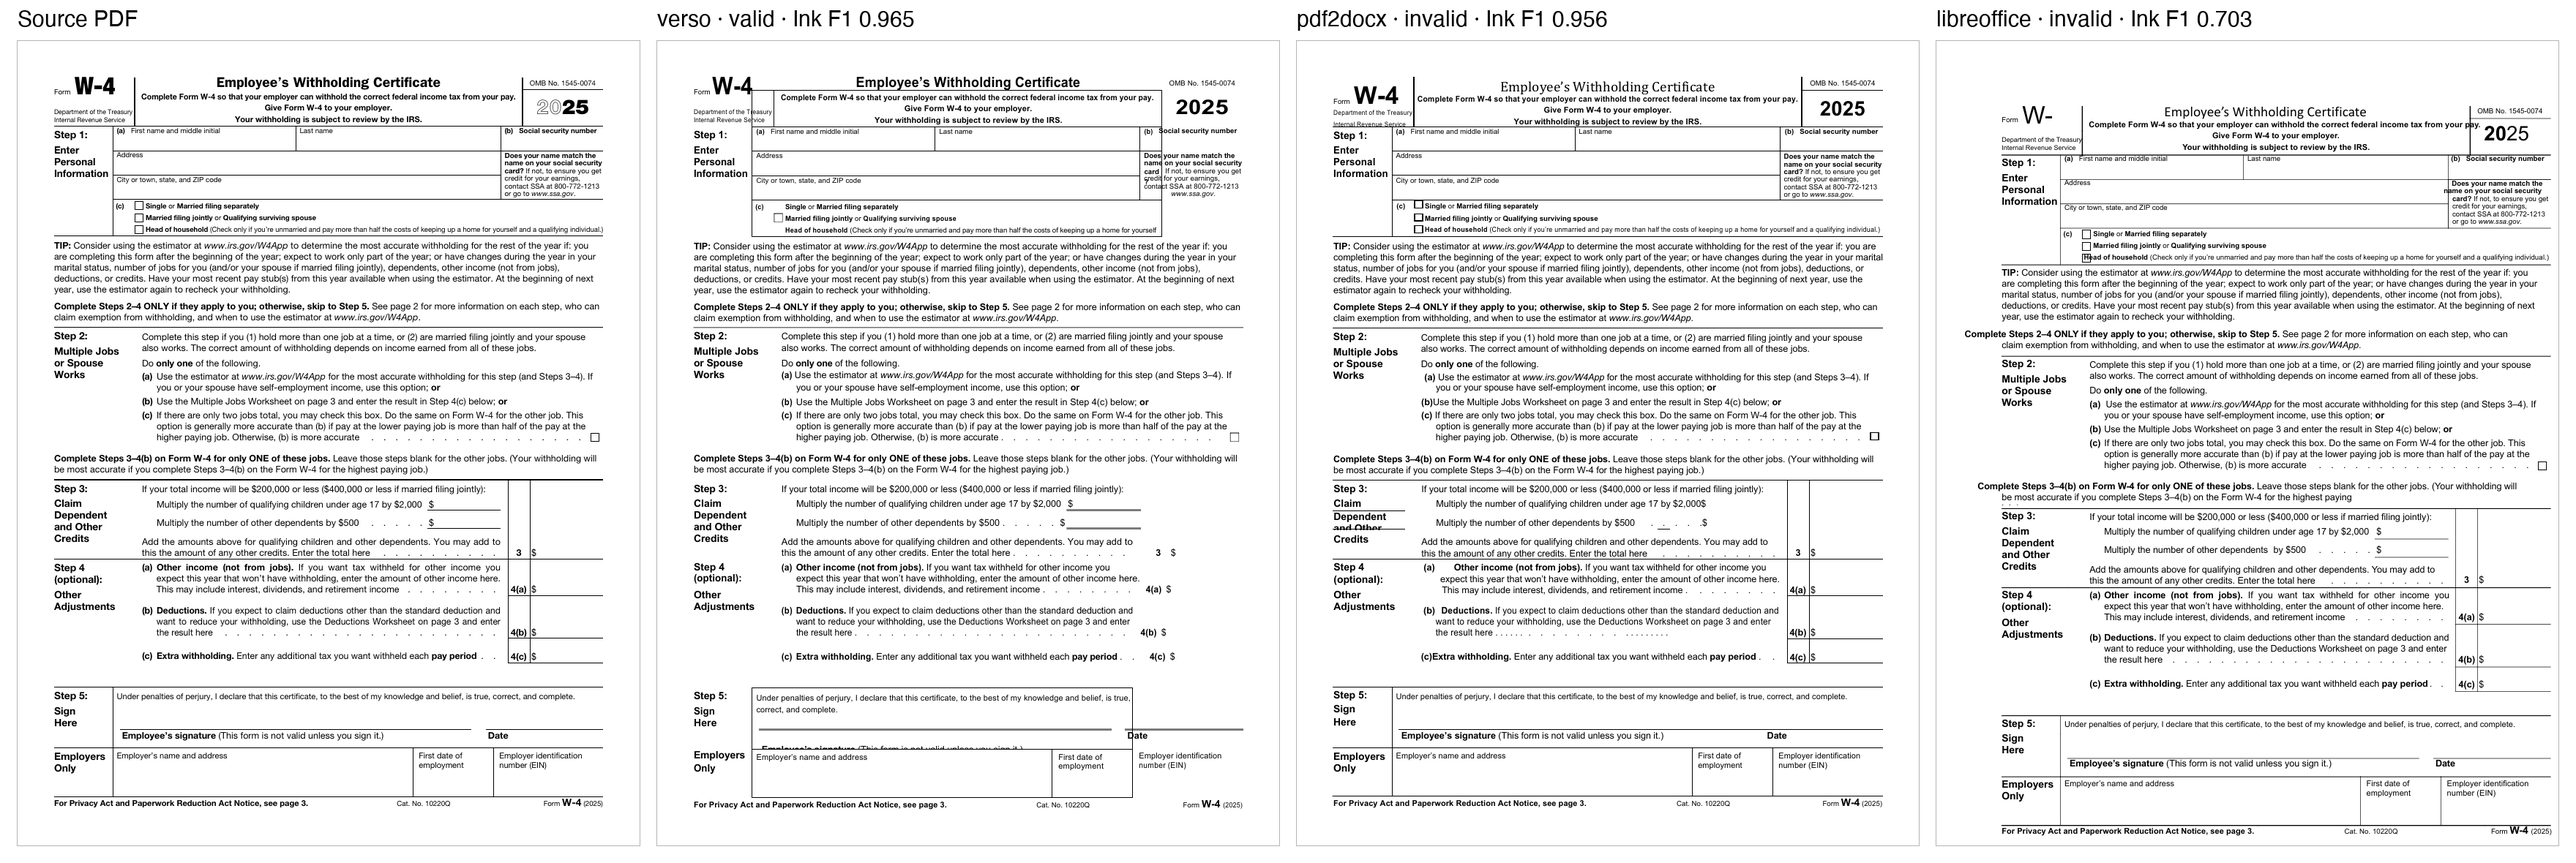
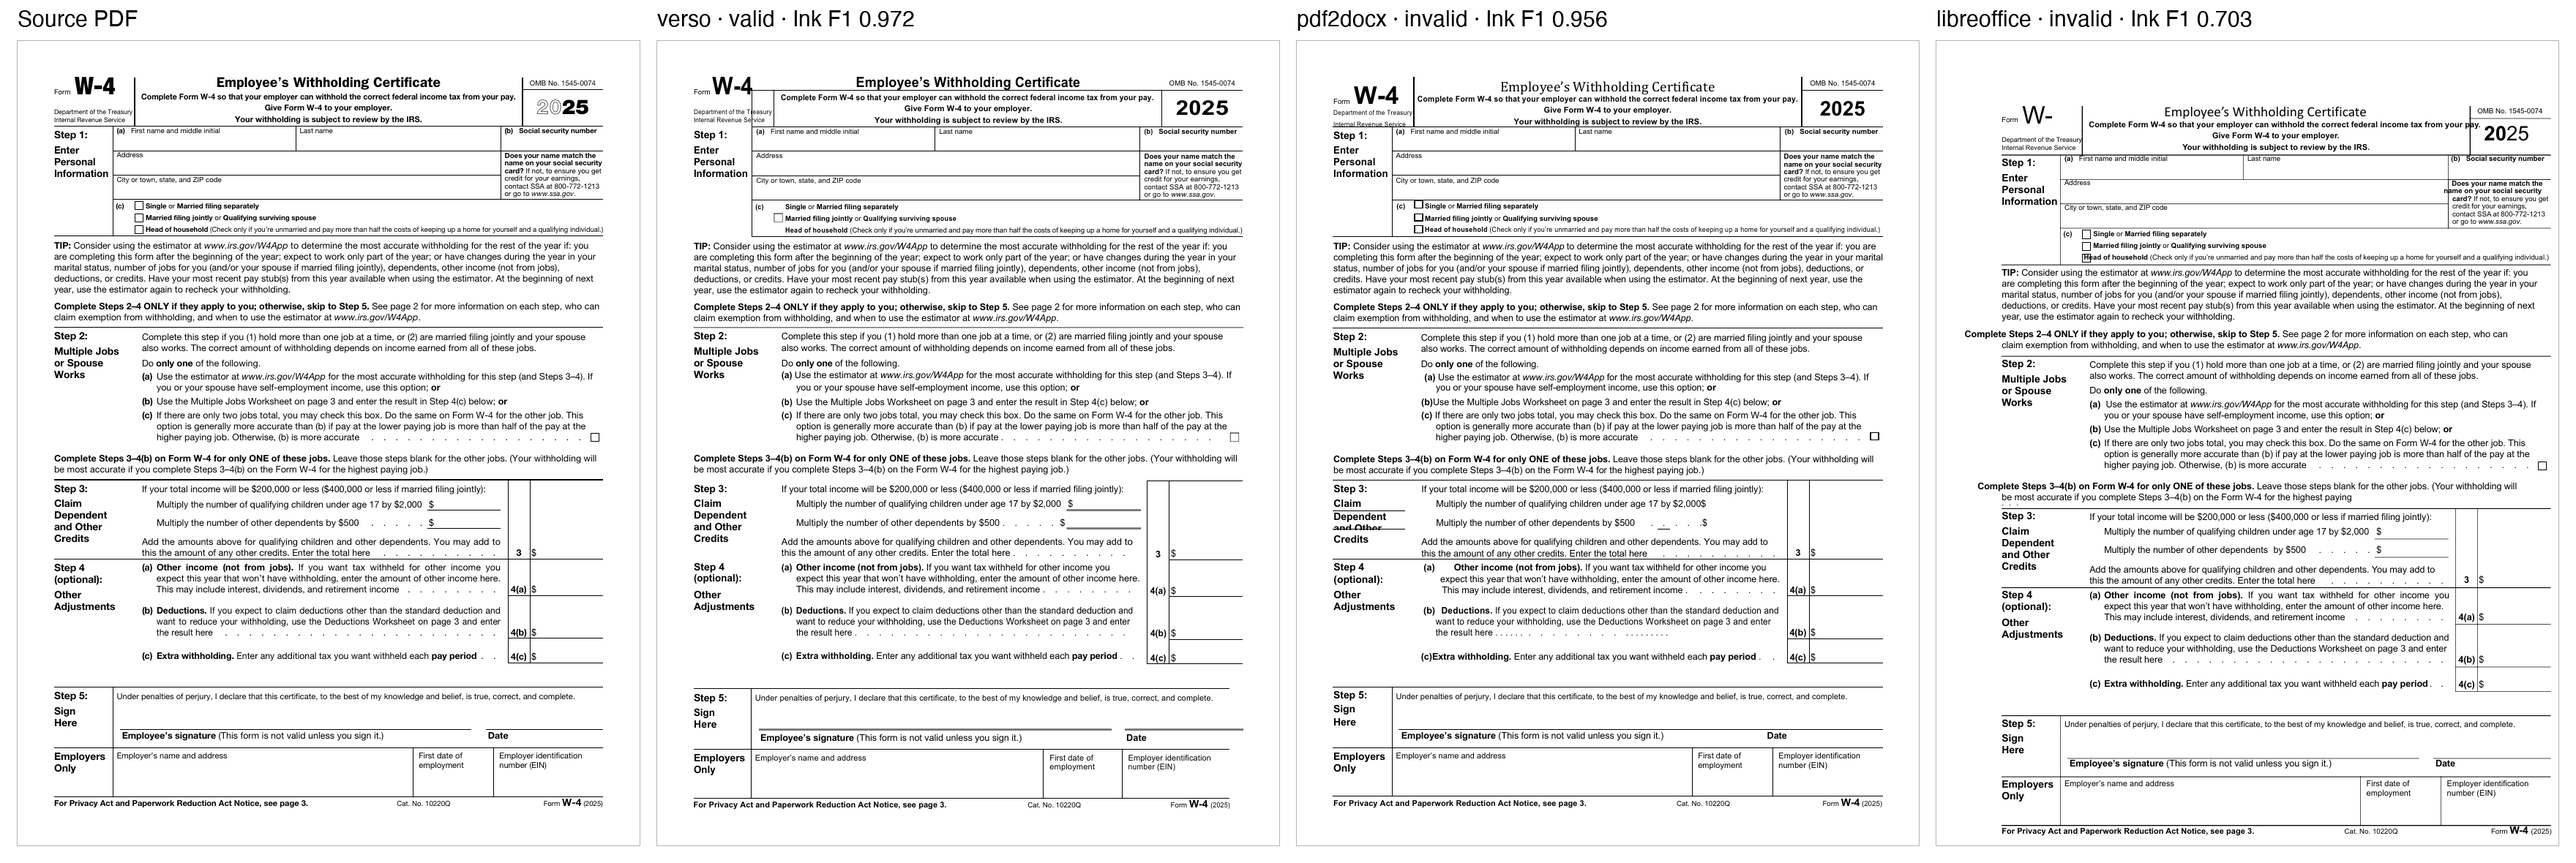
CJK fonts and widths, open-sided form grids, dense maps, Type 3 bold; demo/run.sh takes SOURCES, OUT and CONVERTERS

diff --git a/verso_test.go b/verso_test.go
@@ -1989,7 +1989,7 @@ func TestSymbolFontUnicodeBulletGetsATextFace(t *testing.T) {
 // Type 1 fonts with no serif flag are classed by their names: TeX's Computer
 // Modern and URW's Nimbus Roman are serif, CMTT is a typewriter face.
 func TestFontNamesClassUnflaggedFaces(t *testing.T) {
-	for font, want := range map[string]string{"NimbusRomNo9L-Regu": "Times New Roman", "CMR10": "Times New Roman", "CMMI10": "Times New Roman", "CMTT12": "Courier New", "NimbusSanL-Bold": "Arial", "SourceSansPro-Regular": "Arial", "CMSS10": "Arial"} {
+	for font, want := range map[string]string{"NimbusRomNo9L-Regu": "Times New Roman", "CMR10": "Times New Roman", "CMMI10": "Times New Roman", "CMTT12": "Courier New", "LMMathItalic12-Regular": "Times New Roman", "MSAM10": "Times New Roman", "NimbusSanL-Bold": "Arial", "SourceSansPro-Regular": "Arial", "CMSS10": "Arial"} {
 		s := span("x", 72, 100, 5)
 		s.Font = font
 		if got := wordFamily(s); got != want {
@@ -2096,5 +2096,130 @@ func TestDingbatGlyphsKeepTheirLook(t *testing.T) {
 	}
 	if text != "Yes" || len(pages[0].Images) == 0 {
 		t.Fatalf("text %q, %d images: want the dingbat as an image beside the text", text, len(pages[0].Images))
+	}
+}
+
+// A form leaves its page-edge side open: the rules run on past the last
+// vertical. The grid reaches where they end, so a row's full-width text is
+// not squeezed into the last vertical's column, and that side draws no rule.
+func TestOpenSidedGridReachesItsRules(t *testing.T) {
+	p := Page{Width: 612, Height: 792}
+	for _, y := range []float64{100, 140, 180} {
+		p.Segments = append(p.Segments, Segment{X1: 36, Y1: y, X2: 576, Y2: y})
+	}
+	p.Segments = append(p.Segments, Segment{X1: 94, Y1: 100, X2: 94, Y2: 180}, Segment{X1: 389, Y1: 140, X2: 389, Y2: 180}, Segment{X1: 468, Y1: 140, X2: 468, Y2: 180})
+	p.Spans = []Span{span("Under penalties of perjury, I declare that this certificate is true, correct, and complete.", 98, 104, 450),
+		span("Employer identification", 474, 144, 82)}
+	l, err := layout(p)
+	if err != nil {
+		t.Fatal(err)
+	}
+	if len(l.Tables) != 1 {
+		t.Fatalf("%d tables", len(l.Tables))
+	}
+	tb := l.Tables[0]
+	if tb.XS[0] > 37 || tb.right() < 575 || !tb.OpenLeft || !tb.OpenRight {
+		t.Fatalf("grid XS %v open %v/%v: want it to reach the rules' ends with both sides open", tb.XS, tb.OpenLeft, tb.OpenRight)
+	}
+	var b bytes.Buffer
+	if _, err := Write(&b, []Page{p}); err != nil {
+		t.Fatal(err)
+	}
+	if doc := docParts(t, b.Bytes())["word/document.xml"]; !strings.Contains(doc, `<w:left w:val="nil"/>`) || !strings.Contains(doc, `<w:right w:val="nil"/>`) {
+		t.Fatal("open sides drew a rule")
+	}
+}
+
+// CJK text names its East Asian font by script and source region: left to
+// Word, simplified Chinese took a Japanese fallback and 论 drew blank.
+func TestEastAsianFontFollowsScriptAndRegion(t *testing.T) {
+	for _, c := range []struct{ font, text, want, lang string }{
+		{"AAAAAA+NotoSansCJKsc-Regular", "所有这些理论", "SimHei", "zh-CN"},
+		{"CAAAAA+NotoSerifCJKsc-Regular", "理论", "SimSun", "zh-CN"},
+		{"NotoSansCJKtc-Regular", "這些理論", "MingLiU", "zh-TW"},
+		{"NotoSansCJKjp-Regular", "周期表", "MS Gothic", "ja-JP"},
+		{"Arial", "ウィキペディア", "MS Gothic", "ja-JP"},
+		{"Arial", "주기율표", "Malgun Gothic", "ko-KR"},
+		{"Arial", "Plain text", "", ""},
+	} {
+		s := span(c.text, 72, 100, 50)
+		s.Font = c.font
+		if font, lang := eastAsian(s); font != c.want || lang != c.lang {
+			t.Errorf("%s %q: %s %s, want %s %s", c.font, c.text, font, lang, c.want, c.lang)
+		}
+	}
+}
+
+// A map of more dots than the path limit keeps its drawing as one image of
+// the area the dots cover, not none at all.
+func TestTooManyPathsKeepTheirArea(t *testing.T) {
+	opts := integrationOptions(t)
+	input, output := filepath.Join(t.TempDir(), "map.pdf"), filepath.Join(t.TempDir(), "map.docx")
+	var content strings.Builder
+	content.WriteString("BT /F1 12 Tf 72 740 Td (Figure 3. Wells by county) Tj ET\n0.5 g\n")
+	for i := 0; i < 20_500; i++ {
+		fmt.Fprintf(&content, "%d %d 1 1 re f\n", 100+i%400, 200+i/400*4)
+	}
+	writePDF(t, input, []string{
+		"<< /Type /Catalog /Pages 2 0 R >>",
+		"<< /Type /Pages /Count 1 /Kids [3 0 R] >>",
+		"<< /Type /Page /Parent 2 0 R /MediaBox [0 0 612 792] /Resources << /Font << /F1 4 0 R >> >> /Contents 5 0 R >>",
+		"<< /Type /Font /Subtype /Type1 /BaseFont /Helvetica >>",
+		fmt.Sprintf("<< /Length %d >>\nstream\n%sendstream", content.Len(), content.String()),
+	})
+	opts.AllowWarnings = true
+	report, err := Convert(context.Background(), input, output, opts)
+	if err != nil {
+		t.Fatal(err)
+	}
+	if report.Images == 0 || len(report.Warnings) > 0 {
+		t.Fatalf("report %+v: want the dots kept as an image, nothing left out", report)
+	}
+}
+
+// CJK text fits its source width like Latin text: ideographs and full-width
+// punctuation set one em in every CJK font.
+func TestCJKRunFitsItsSourceWidth(t *testing.T) {
+	s := span("所有这些理论，2016年", 72, 100, 0)
+	s.Size = 10
+	_, tracking, ok := wordFit(s, wordFamily(s), false)
+	if ok {
+		t.Fatalf("zero width fits: %v", tracking)
+	}
+	s.Width = 8*10 + emsIn(s, "2016")*10 + 8*0.2 // 8 em-wide runes, 4 digits, 0.2pt apart
+	scale, tracking, ok := wordFit(s, wordFamily(s), false)
+	if !ok || scale != 100 || math.Abs(tracking-8*0.2/12) > 0.01 {
+		t.Fatalf("fit %d %.3f %v: want the source's extra width as tracking", scale, tracking, ok)
+	}
+}
+
+var toUnicodeH = func() string {
+	cmap := "/CIDInit /ProcSet findresource begin 12 dict begin begincmap /CMapName /H def 1 begincodespacerange <00> <FF> endcodespacerange 1 beginbfchar <48> <0048> endbfchar endcmap CMapName currentdict /CMap defineresource pop end end\n"
+	return fmt.Sprintf("<< /Length %d >>\nstream\n%sendstream", len(cmap), cmap)
+}()
+
+// A font reporting no weight is bold when its name's style says so (Type 3
+// "NotoSansCJKsc-Bold" headings came out plain).
+func TestBoldFromTheFontName(t *testing.T) {
+	opts := integrationOptions(t)
+	input := filepath.Join(t.TempDir(), "bold.pdf")
+	content := "BT /F1 14 Tf 72 700 Td (HHH) Tj ET\n"
+	glyph := "600 0 0 0 600 700 d1 0 0 600 700 re f\n"
+	writePDF(t, input, []string{
+		"<< /Type /Catalog /Pages 2 0 R >>",
+		"<< /Type /Pages /Count 1 /Kids [3 0 R] >>",
+		"<< /Type /Page /Parent 2 0 R /MediaBox [0 0 612 792] /Resources << /Font << /F1 4 0 R >> >> /Contents 5 0 R >>",
+		"<< /Type /Font /Subtype /Type3 /Name /AAAAAA+ExampleSans-Bold /FontBBox [0 0 600 700] /FontMatrix [0.001 0 0 0.001 0 0] /CharProcs << /H 6 0 R >> /Encoding << /Type /Encoding /Differences [72 /H] >> /FirstChar 72 /LastChar 72 /Widths [600] /FontDescriptor 7 0 R /ToUnicode 8 0 R >>",
+		fmt.Sprintf("<< /Length %d >>\nstream\n%sendstream", len(content), content),
+		fmt.Sprintf("<< /Length %d >>\nstream\n%sendstream", len(glyph), glyph),
+		"<< /Type /FontDescriptor /FontName /AAAAAA+ExampleSans-Bold /Flags 32 /FontBBox [0 0 600 700] /ItalicAngle 0 /Ascent 700 /Descent 0 /CapHeight 700 /StemV 80 >>",
+		toUnicodeH,
+	})
+	pages, err := Extract(context.Background(), input, opts)
+	if err != nil {
+		t.Fatal(err)
+	}
+	if len(pages[0].Spans) == 0 || pages[0].Spans[0].Weight < 600 {
+		t.Fatalf("spans %+v: want the heading bold", pages[0].Spans)
 	}
 }

diff --git a/write.go b/write.go
@@ -168,7 +168,11 @@ func (w *writer) span(b *strings.Builder, s Span) {
 		b.WriteString(`<w:fldSimple w:instr=" PAGE ">`)
 		defer b.WriteString(`</w:fldSimple>`)
 	}
-	fmt.Fprintf(b, `<w:r><w:rPr><w:rFonts w:ascii="%s" w:hAnsi="%s" w:eastAsia="%s" w:cs="%s"/>`, f, f, f, f)
+	east, lang := eastAsian(s)
+	if east == "" {
+		east = family
+	}
+	fmt.Fprintf(b, `<w:r><w:rPr><w:rFonts w:ascii="%s" w:hAnsi="%s" w:eastAsia="%s" w:cs="%s"/>`, f, f, esc(east), f)
 	if s.Weight >= 600 {
 		b.WriteString(`<w:b/><w:bCs/>`)
 	}
@@ -204,12 +208,70 @@ func (w *writer) span(b *strings.Builder, s Span) {
 	if s.Underline {
 		b.WriteString(`<w:u w:val="single"/>`)
 	}
+	if lang != "" {
+		fmt.Fprintf(b, `<w:lang w:eastAsia="%s"/>`, lang)
+	}
 	// A soft hyphen is Word's optional hyphen: shown only where a line breaks.
 	text := strings.ReplaceAll(esc(s.Text), "\u00ad", `</w:t><w:softHyphen/><w:t xml:space="preserve">`)
 	fmt.Fprintf(b, `</w:rPr><w:t xml:space="preserve">%s</w:t></w:r>`, text)
 	if s.Link != "" {
 		b.WriteString(`</w:hyperlink>`)
 	}
+}
+
+// eastAsian is the East Asian font and language for a span's CJK text, from
+// its script (kana is Japanese, Hangul Korean) or its source font's region
+// ("NotoSansCJKsc", "MingLiU"); "" for text without any. Left to Word, Han
+// text took a Japanese fallback without simplified Chinese forms, and 论 or
+// 这 drew blank. The fonts are ones Word installs on Windows and Mac.
+func eastAsian(s Span) (font, lang string) {
+	han, kana, hangul := false, false, false
+	for _, r := range s.Text {
+		switch {
+		case unicode.Is(unicode.Hangul, r):
+			hangul = true
+		case unicode.In(r, unicode.Hiragana, unicode.Katakana):
+			kana = true
+		case unicode.Is(unicode.Han, r):
+			han = true
+		}
+	}
+	if !han && !kana && !hangul {
+		return "", ""
+	}
+	key := fontKey(fontName(s.Font))
+	serif := s.Serif || cjkSerif.MatchString(key)
+	pick := func(serifFont, sansFont, lang string) (string, string) {
+		if serif {
+			return serifFont, lang
+		}
+		return sansFont, lang
+	}
+	switch {
+	case hangul || cjkRegion(key, "kr", "korean", "malgun", "batang", "gulim", "dotum", "myeongjo", "gothicneo"):
+		return pick("Batang", "Malgun Gothic", "ko-KR")
+	case kana || cjkRegion(key, "jp", "japan", "mincho", "gothic", "meiryo", "hiragino", "yugoth", "yumin", "ipa"):
+		return pick("MS Mincho", "MS Gothic", "ja-JP")
+	case cjkRegion(key, "tc", "hk", "tw", "ming", "jhenghei", "big5"):
+		return pick("MingLiU", "MingLiU", "zh-TW")
+	}
+	return pick("SimSun", "SimHei", "zh-CN")
+}
+
+var cjkSerif = regexp.MustCompile(`serif|mincho|ming|song|sun|batang|myeongjo|kai|fang`)
+
+// cjkRegion reports whether a font key names a region: "notosanscjkjp"
+// ends in jp; "msmincho" contains mincho.
+func cjkRegion(key string, marks ...string) bool {
+	for _, m := range marks {
+		if len(m) <= 2 && (strings.HasSuffix(key, m) || strings.Contains(key, "cjk"+m) || strings.Contains(key, m+"regular") || strings.Contains(key, m+"bold")) {
+			return true
+		}
+		if len(m) > 2 && strings.Contains(key, m) {
+			return true
+		}
+	}
+	return false
 }
 
 var numberMarker = regexp.MustCompile(`^\(?(?:\d{1,3}|[a-zA-Z]|[ivxlcIVXLC]{1,5})[.)]$|^\d{1,3}(?:\.\d{1,3})+\.?$`)
@@ -459,6 +521,10 @@ func (w *writer) table(t Table, origin float64) string {
 	var b strings.Builder
 	fmt.Fprintf(&b, `<w:tbl><w:tblPr><w:tblW w:w="%d" w:type="dxa"/><w:jc w:val="left"/><w:tblInd w:w="%d" w:type="dxa"/><w:tblBorders>`, twips(t.right()-t.X), twips(t.X-origin))
 	for _, edge := range []string{"top", "left", "bottom", "right", "insideH", "insideV"} {
+		if edge == "left" && t.OpenLeft || edge == "right" && t.OpenRight {
+			fmt.Fprintf(&b, `<w:%s w:val="nil"/>`, edge)
+			continue
+		}
 		fmt.Fprintf(&b, `<w:%s w:val="single" w:sz="4" w:color="000000"/>`, edge)
 	}
 	b.WriteString(`</w:tblBorders>` + tablePrefix + `</w:tblPr><w:tblGrid>`)

diff --git a/model.go b/model.go
@@ -52,12 +52,39 @@ type Cell struct {
 	Continue, Merge bool
 }
 type Table struct {
-	X, Y   float64
-	XS, YS []float64
-	Rows   [][]Cell
+	X, Y                float64
+	XS, YS              []float64
+	Rows                [][]Cell
+	OpenLeft, OpenRight bool // no rule on that side: the grid's rules run on past it
 }
 
 func (t Table) right() float64 { return t.XS[len(t.XS)-1] }
+
+// openSides adds an edge where a grid's top and bottom rules run on past
+// its outermost vertical rule: forms often leave the page-edge side open
+// ("Employer identification number" beside the last rule), and a grid
+// bounded at its last vertical squeezed a full-width row's text into a
+// wrapped, clipped cell.
+func openSides(g []Segment, xs, ys []float64) (_ []float64, left, right bool) {
+	reach := func(y float64) (lo, hi float64) {
+		lo, hi = math.Inf(1), math.Inf(-1)
+		for _, s := range g {
+			if s.Y2-s.Y1 < 1 && math.Abs(s.Y1-y) < 1.5 {
+				lo, hi = math.Min(lo, s.X1), math.Max(hi, s.X2)
+			}
+		}
+		return lo, hi
+	}
+	topLo, topHi := reach(ys[0])
+	bottomLo, bottomHi := reach(ys[len(ys)-1])
+	if hi := math.Min(topHi, bottomHi); hi > xs[len(xs)-1]+3 && math.Abs(topHi-bottomHi) < 3 {
+		xs, right = append(xs, hi), true
+	}
+	if lo := math.Max(topLo, bottomLo); lo < xs[0]-3 && math.Abs(topLo-bottomLo) < 3 {
+		xs, left = append([]float64{lo}, xs...), true
+	}
+	return xs, left, right
+}
 
 type Layout struct {
 	Items  []Item
@@ -436,6 +463,10 @@ grids:
 			}
 		}
 		xs, ys := cluster(xx), cluster(yy)
+		var openLeft, openRight bool
+		if len(xs) >= 2 && len(ys) >= 2 {
+			xs, openLeft, openRight = openSides(g, xs, ys)
+		}
 		if len(xs) < 3 || len(ys) < 3 {
 			continue
 		}
@@ -443,7 +474,7 @@ grids:
 			continue // too fine to be a Word table; its text stays in the flow
 		}
 		claimed := append([]bool(nil), assigned...)
-		table := Table{X: xs[0], Y: ys[0], XS: xs, YS: ys}
+		table := Table{X: xs[0], Y: ys[0], XS: xs, YS: ys, OpenLeft: openLeft, OpenRight: openRight}
 		wall := func(x, y float64, vertical bool) bool {
 			for _, s := range g {
 				if vertical && s.X2-s.X1 < 1 && math.Abs(s.X1-x) < 1.5 && s.Y1 <= y+1 && s.Y2 >= y-1 {

diff --git a/wordfont.go b/wordfont.go
@@ -58,11 +58,11 @@ func wordFamily(s Span) string {
 }
 
 // Embedded Type 1 fonts often leave the serif flag unset (TeX's Computer
-// Modern, URW's Nimbus Roman): their names say what the flags don't, and
+// Modern and its math fonts, URW's Nimbus Roman): their names say what the flags don't, and
 // set in Arial a serif document grew by pages.
 var (
 	monoName  = regexp.MustCompile(`mono|courier|typewriter|^(cm|lm|ec)tt`)
-	serifName = regexp.MustCompile(`roman|serif|times|mincho|ming|song|garamond|georgia|palatino|bookman|schoolbook|century|termes|stix|libertine|charter|^(cm|lm|ec)(r|mi|bx|ti|sl|csc|sy|ex|u|b)[0-9]`)
+	serifName = regexp.MustCompile(`roman|serif|times|mincho|ming|song|garamond|georgia|palatino|bookman|schoolbook|century|termes|stix|libertine|charter|math|^(cm|lm|ec)(r|mi|bx|ti|sl|csc|sy|ex|u|b)[0-9]|^(msam|msbm|bbold|eufm|eusm|rsfs)[0-9]`)
 )
 
 // wordFit is the character scale, in percent, and the tracking, in points,
@@ -121,6 +121,9 @@ func wordFit(s Span, family string, justified bool) (scale int, tracking float64
 
 func halfPoints(size float64) int { return max(1, int(math.Round(size*2))) }
 func advance(advances []uint16, r rune) uint16 {
+	if fullWidth(r) {
+		return 1000 // a CJK font's ideographs, kana, Hangul and full-width forms
+	}
 	at := 0
 	for _, rg := range metricRanges {
 		if r >= rg[0] && r <= rg[1] {
@@ -132,6 +135,14 @@ func advance(advances []uint16, r rune) uint16 {
 		at += int(rg[1]-rg[0]) + 1
 	}
 	return 0
+}
+
+// fullWidth reports whether a rune sets one em wide in every CJK font, so a
+// run of it fits its source width whichever East Asian font Word draws:
+// SimSun set a Chinese line 1% wider than its source, and lines wrapped.
+func fullWidth(r rune) bool {
+	return r >= 0x3000 && r <= 0x30ff || r >= 0x3400 && r <= 0x4dbf || r >= 0x4e00 && r <= 0x9fff ||
+		r >= 0xac00 && r <= 0xd7af || r >= 0xf900 && r <= 0xfaff || r >= 0xff01 && r <= 0xff60
 }
 
 // spaceWidth is a space's width in the family and size Word lays s out in,

diff --git a/README.md b/README.md
@@ -31,10 +31,10 @@ from the source means text flowed onto the wrong pages.
 | | verso | pdf2docx 0.5.13 | LibreOffice 26.2 |
 |---|---|---|---|
 | Physics paper, 17 pp | **valid**, Ink F1 **0.987** | invalid, 0.631, 18 pp | invalid, 0.686 |
-| Japanese Wikipedia, 14 pp | **valid**, **0.947** | invalid, 0.747, 15 pp | invalid, 0.490 |
+| Japanese Wikipedia, 14 pp | **valid**, **0.940** | invalid, 0.747, 15 pp | invalid, 0.490 |
 | H.R. 82 bill, 3 pp | **valid**, **0.968** | invalid, 0.957 | invalid, 0.518 |
 | NIST FIPS 197 (AES), 46 pp | **valid**, **0.974** | invalid, 0.363, 54 pp | invalid, 0.407 |
-| IRS Form W-4, 4 pp | **valid**, **0.965** | invalid, 0.956 | invalid, 0.703 |
+| IRS Form W-4, 4 pp | **valid**, **0.972** | invalid, 0.956 | invalid, 0.703 |
 | U.S. Courts AO 240, 2 pp | **valid**, **0.982** | invalid, 0.963 | invalid, 0.239 |
 
 Each image shows one page: the source PDF, then verso, pdf2docx and LibreOffice.
@@ -46,10 +46,9 @@ Each image shows one page: the source PDF, then verso, pdf2docx and LibreOffice.
 ![IRS W-4](demo/w4.png)
 ![Court form](demo/court-form.png)
 
-Known gaps, visible above:
-- The W-4's signature line overprints its label.
-- Text set in a font Word lacks is drawn in a substitute fitted to the
-  source width, so its letterforms differ from the source.
+Known gap, visible above: text set in a font Word lacks is drawn in a
+substitute fitted to the source width, so its letterforms differ from the
+source.
 
 `demo/run.sh` downloads the sources, checks their hashes and rebuilds the
 images and `demo/results.tsv`. The PDFs are not in this repository.
